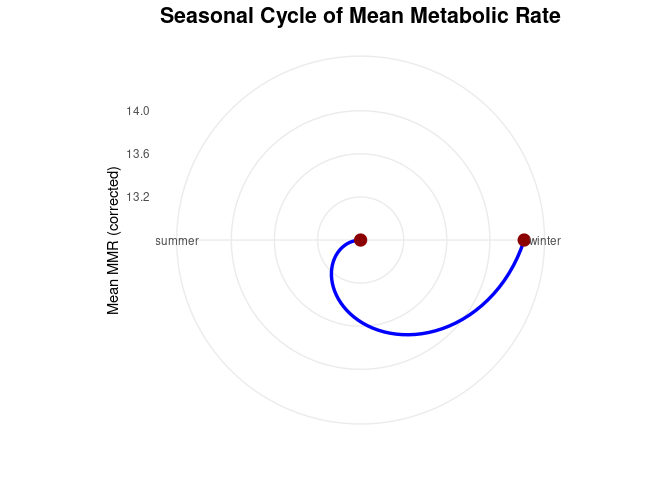
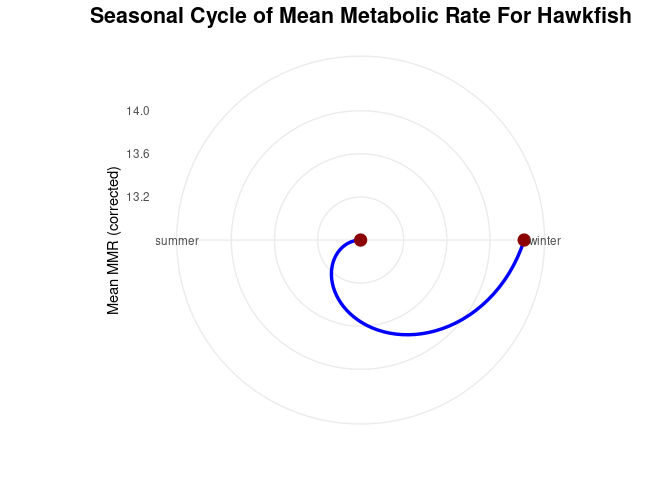
Renamed graph titles

Changed region(s): [[0.125, 0.0, 0.9375, 0.0625]]

diff --git a/memo/memo.md b/memo/memo.md
@@ -135,7 +135,7 @@ ggplot(season_means, aes(x = season, y = mean_mmr, group = 1)) +
   coord_polar() +
   theme_minimal() +
   labs(
-    title = "Seasonal Cycle of Mean Metabolic Rate",
+    title = "Seasonal Cycle of Mean Metabolic Rate For Hawkfish",
     x = "",
     y = "Mean MMR (corrected)"
   ) +
@@ -167,7 +167,7 @@ ggplot(df, aes(x = bw_g, y = mmr_corrected, color = season)) +
   facet_wrap(~ season, nrow = 1) +
   theme_minimal() +
   labs(
-    title = "Body Weight vs Metabolic Rate Across Seasons",
+    title = "Body Weight vs Metabolic Rate Across Seasons for hawkfish",
     x = "Body Weight (g)",
     y = "MMR (corrected)"
   ) +
